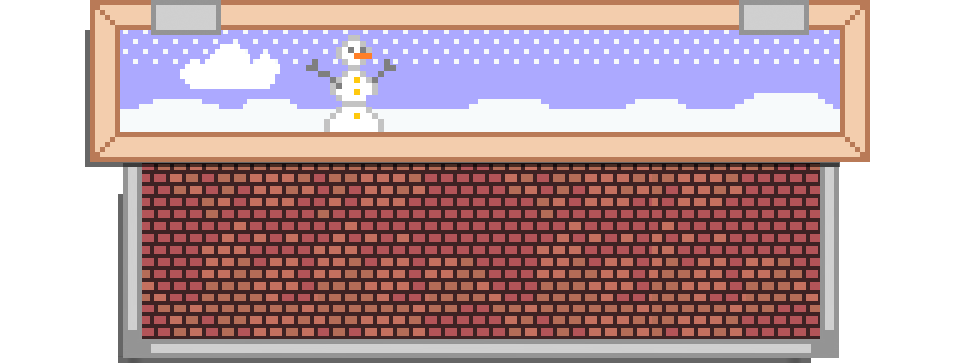
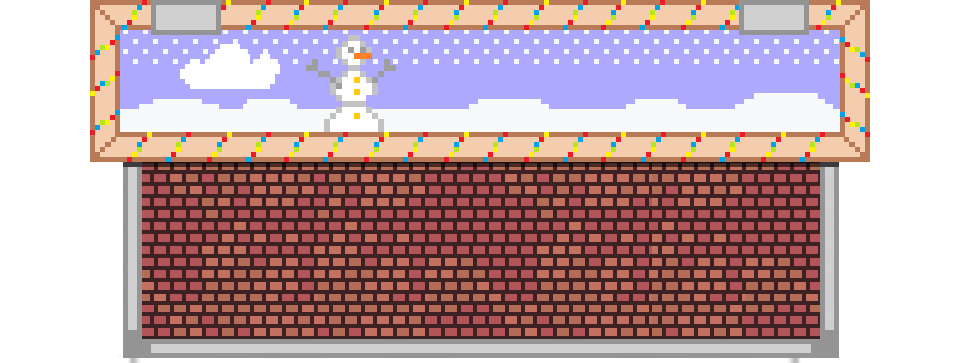
New Year commit

diff --git a/css/main.css b/css/main.css
@@ -3,13 +3,13 @@ body
  font-family: Comic Sans MS; 
  font-family: sans-serif color black;
  background: url(../img/background.png);
- background-size: 25%;
+ background-size: 27%;
 }
 
 
 
 header 
-{background: url(../img/header.png) no-repeat center top;	
+{background: url(../img/header.gif) no-repeat center top;	
 height: 406px;
 }
 
@@ -46,7 +46,7 @@ color: #ff1472;
 
 .animate img 
 {
-	margin-left: 40%;
+	margin-left: 530px;
 	 margin-top: 108px;
 	position: absolute;
 }
@@ -71,8 +71,8 @@ color: #ff1472;
 
 section
 {
-	background: url(../img/section.png) no-repeat center top;
-	height: 1294px;
+	background: url(../img/section.gif) no-repeat center top;
+	height: 1292px;
 	font-size: 25px;
 	padding: 0;
 	margin: 0;
@@ -234,7 +234,7 @@ float: left;
 footer 
 
 {
-	background: url(../img/Footer.png) no-repeat center top;
+	background: url(../img/footer.gif) no-repeat center top;
 	 height: 367px;
 }
 
@@ -317,4 +317,12 @@ margin-top: 20px;
 {
 	margin-left: 42.5%;
 	margin-top: -85px;
+}
+.button-turn-on {
+	display: none;
+	margin-left: 600px;
+	background:  red;
+	border-radius: 300px;
+	width: 50px;
+	height: 50px;
 }

diff --git a/index.html b/index.html
@@ -117,6 +117,7 @@
             <img class="Door" src="img/Door.png">
         </div>
 </a>
+    <button class="button-turn-on" onclick="document.getElementById('img').src='compman.gif'">On</button>
  <div>
         	<img class="Torch1" src="img/Torch.gif">
         </div>
